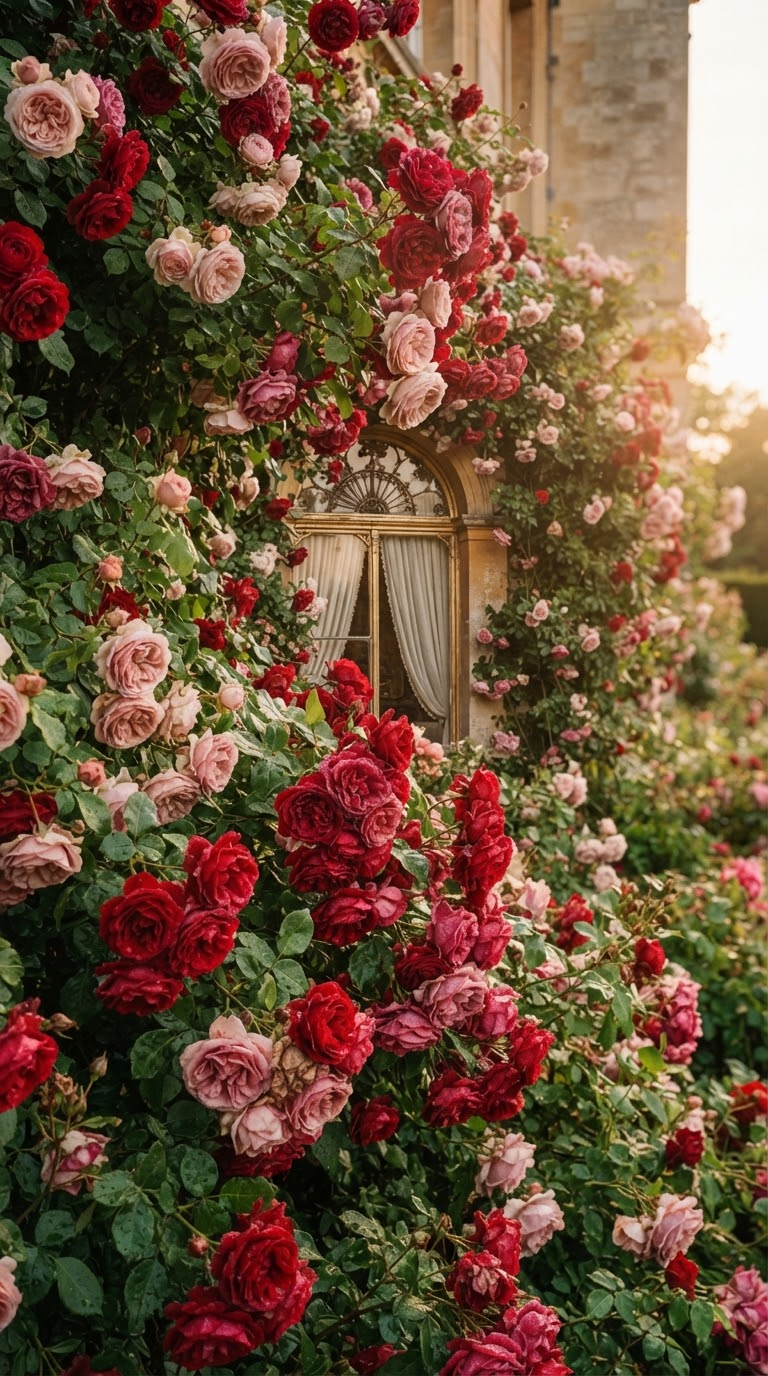
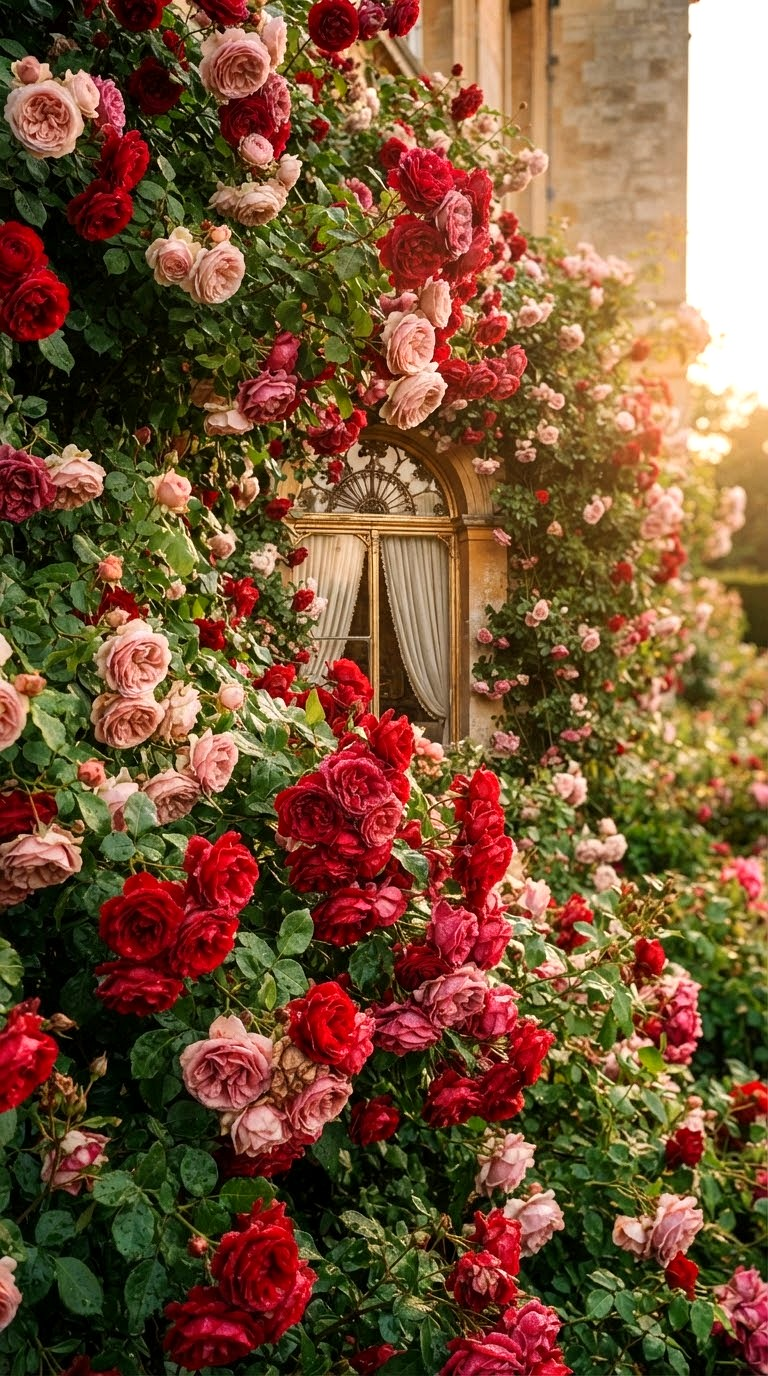
Agrega relato del cuento, música (YouTube) y realza el brillo de las imágenes
- Relato de la quinceañera bajo la imagen del jardín (imagen reducida a 300px)
- Música de fondo "La Fábula Ancestral" vía reproductor oficial de YouTube (botón ♪)
- Realce de brillo/color/contraste en salón, rosa-cúpula y jardín (menos matificado)
- Fondo de portada más luminoso y pareja del vals con más brillo dorado

diff --git a/index.html b/index.html
@@ -265,8 +265,16 @@
 
   /* ============ SALÓN · EL VALS ============ */
   .ballroom{ position:relative; margin:18px auto 6px; max-width:640px }
-  .vals-img{ display:block; width:100%; max-width:520px; margin:16px auto 4px;
-    border-radius:6px; border:2px solid var(--oro); box-shadow:var(--sombra) }
+  .vals-img{ display:block; width:100%; max-width:300px; margin:16px auto 6px;
+    border-radius:8px; border:2px solid var(--oro); box-shadow:var(--sombra);
+    filter:brightness(1.05) saturate(1.08) }
+  /* relato / cuento de la quinceañera */
+  .relato{ max-width:560px; margin:6px auto 4px; padding:0 8px; text-align:center }
+  .relato p{ font-family:'Cormorant Garamond',Georgia,serif; font-style:italic;
+    font-weight:400; font-size:clamp(1.16rem,3.6vw,1.5rem); line-height:1.7;
+    color:var(--texto); margin:0 0 15px }
+  .relato p:last-child{ margin-bottom:0; font-style:normal }
+  .relato .rosa-cierre{ font-size:1.35em; font-style:normal }
   .escena{ width:100%; height:auto; display:block; overflow:visible }
   .escena .figura{ fill:var(--texto) }
   .escena .cabello{ fill:var(--texto) }
@@ -386,6 +394,16 @@
   .fab-wa{ right:16px; bottom:16px; background:#25D366; color:#fff }
   .fab-music{ left:16px; bottom:16px; background:var(--gradBoton); color:var(--texto) }
   .flotante svg{ width:26px; height:26px; fill:currentColor }
+  /* tarjeta del reproductor de música (YouTube oficial) */
+  .yt-card{ position:fixed; left:16px; bottom:80px; z-index:41; width:236px;
+    background:var(--tarjeta); border:2px solid var(--oro); border-radius:14px;
+    box-shadow:var(--sombra); padding:9px 9px 10px; animation:ytEntra .3s ease }
+  .yt-card .yt-tit{ font-family:'Cormorant Garamond',Georgia,serif; font-weight:600;
+    font-size:1rem; color:var(--texto); text-align:center; margin:0 0 7px; letter-spacing:.2px }
+  .yt-card .yt-marco{ position:relative; width:100%; aspect-ratio:16/9;
+    border-radius:9px; overflow:hidden; background:#000 }
+  .yt-card .yt-marco iframe{ position:absolute; inset:0; width:100%; height:100%; border:0 }
+  @keyframes ytEntra{ from{ opacity:0; transform:translateY(10px) } to{ opacity:1; transform:none } }
 
   /* ====== LIGHTBOX ====== */
   .lightbox{ position:fixed; inset:0; z-index:60; background:rgba(20,10,20,.9); display:none; align-items:center; justify-content:center; padding:20px }
@@ -398,14 +416,15 @@
   .hero::before{
     content:''; position:absolute; inset:0; z-index:0; pointer-events:none;
     background:
-      linear-gradient(180deg, rgba(16,18,42,.60), rgba(16,18,42,.40) 42%, rgba(22,14,10,.74)),
+      linear-gradient(180deg, rgba(16,18,42,.46), rgba(16,18,42,.26) 44%, rgba(22,14,10,.60)),
       url('img/salon.jpg') center / cover no-repeat;
+    filter:brightness(1.08) saturate(1.06);
   }
   .hero > *{ position:relative; z-index:1 }
   /* pareja de vals sobre el salón, detrás del marco */
   .hero-vals{ position:absolute; inset:0; z-index:0; display:grid; place-items:center; pointer-events:none; overflow:hidden }
-  .hero-vals svg{ width:min(82vh,600px); height:auto; color:#e7c66a; opacity:.30;
-    filter:drop-shadow(0 0 36px rgba(231,198,106,.5));
+  .hero-vals svg{ width:min(82vh,600px); height:auto; color:#f0d27a; opacity:.40;
+    filter:drop-shadow(0 0 46px rgba(240,210,122,.65));
     transform-origin:50% 88%; animation:valsGira 6s ease-in-out infinite alternate }
   .hero-vals .vals-bob{ animation:valsBobFondo 4.2s ease-in-out infinite }
   .hero-vals .vals-falda{ transform-box:fill-box; transform-origin:50% 0; animation:valsFalda 4.2s ease-in-out infinite alternate }
@@ -727,6 +746,13 @@
         </svg>
       </div>
 
+      <div class="relato">
+        <p>Como en un hermoso cuento de hadas, Sara Valentina comienza un nuevo capítulo de su historia.</p>
+        <p>Quince años de sueños, risas, ilusiones y momentos que han hecho florecer su vida como un hermoso jardín.</p>
+        <p>Entre rosas, alegrías y personas que ama, celebrará una noche que quedará para siempre en su corazón.</p>
+        <p>Te invitamos a ser parte de este mágico sueño y a hacer de esta noche un recuerdo para toda la vida. <span class="rosa-cierre">🌹</span></p>
+      </div>
+
       <!-- Foto opcional de los bailarines (aparece si existe el archivo) -->
       <figure class="fotoBailarines" id="fotoBailarines" hidden>
         <div class="marcoFoto">
@@ -734,7 +760,6 @@
         </div>
       </figure>
 
-      <p class="intro">Como en los cuentos de hadas, donde las rosas florecen sin fin y los sueños se hacen realidad. 🌹</p>
     </div>
   </section>
 
@@ -999,6 +1024,12 @@
     <svg viewBox="0 0 24 24" id="iconMusicOff"><path d="M12 3v10.55A4 4 0 108 17V7h6V3h-2zm-2 0H8v2h2V3z"/></svg>
   </button>
 
+  <!-- Reproductor de música (video oficial de YouTube) -->
+  <div class="yt-card" id="ytCard" hidden>
+    <div class="yt-tit">♪ La Fábula Ancestral</div>
+    <div class="yt-marco"><div id="ytPlayer"></div></div>
+  </div>
+
   <!-- Visor de fotos -->
   <div class="lightbox" id="lightbox">
     <button class="cerrar" id="lightboxCerrar" aria-label="Cerrar">&times;</button>
@@ -1054,7 +1085,8 @@ const CONFIG = {
   tiktok:      "",                     // usuario sin @
 
   /* ====== MÚSICA (archivo de audio en la carpeta, o "") ====== */
-  musica: "",                          // ej. "musica.mp3"
+  musica: "",                          // (alternativa) archivo mp3 propio, ej. "musica.mp3"
+  youtubeMusica: "CXZ7Nz69OPg",        // canción de fondo "La Fábula Ancestral" (video oficial de YouTube)
 
   /* ====== EMAIL opcional (Formspree) para avisos ====== */
   formspreeID: "",                     // opcional: si lo pones, te llegan avisos por correo
@@ -1489,15 +1521,54 @@ if(CONFIG.zelleCorreo) $('btnCopiarZelle').addEventListener('click', () => copia
 })();
 
 /* ---------- MÚSICA ---------- */
-if(CONFIG.musica){
-  const audio = new Audio(CONFIG.musica); audio.loop = true; audio.volume = 0.6;
-  const fab = $('fabMusic'); fab.style.display = 'grid'; fab.style.opacity = .6;
-  let sonando = false;
-  fab.addEventListener('click', () => {
-    if(sonando){ audio.pause(); sonando=false; fab.style.opacity=.6; }
-    else{ audio.play().then(()=>{ sonando=true; fab.style.opacity=1; }).catch(()=>{}); }
-  });
-}
+(function(){
+  const fab = $('fabMusic');
+  if(!fab) return;
+
+  /* --- Opción A: video oficial de YouTube --- */
+  if(CONFIG.youtubeMusica){
+    const card = $('ytCard');
+    let player = null, listo = false, sonando = false;
+
+    // cargar la API de YouTube una sola vez
+    const tag = document.createElement('script');
+    tag.src = 'https://www.youtube.com/iframe_api';
+    document.head.appendChild(tag);
+
+    window.onYouTubeIframeAPIReady = function(){
+      player = new YT.Player('ytPlayer', {
+        videoId: CONFIG.youtubeMusica,
+        playerVars: { rel:0, playsinline:1, modestbranding:1 },
+        events: {
+          onReady: () => { listo = true; fab.style.display='grid'; fab.style.opacity=.6; try{ player.setVolume(60); }catch(e){} },
+          onStateChange: (e) => { if(e.data === YT.PlayerState.ENDED){ player.seekTo(0); player.playVideo(); } } // repetir en bucle
+        }
+      });
+    };
+
+    fab.addEventListener('click', () => {
+      if(!listo) return;
+      if(sonando){ player.pauseVideo(); sonando=false; fab.style.opacity=.6; card.hidden=true; }
+      else{ card.hidden=false; player.playVideo(); sonando=true; fab.style.opacity=1; }
+    });
+    return;
+  }
+
+  /* --- Opción B: archivo mp3 propio --- */
+  if(CONFIG.musica){
+    const audio = new Audio(CONFIG.musica); audio.loop = true; audio.volume = 0.6;
+    let sonando = false, lista = false;
+    audio.addEventListener('canplay', () => {
+      if(lista) return; lista = true;
+      fab.style.display = 'grid'; fab.style.opacity = .6;
+    });
+    audio.addEventListener('error', () => { fab.style.display = 'none'; });
+    fab.addEventListener('click', () => {
+      if(sonando){ audio.pause(); sonando=false; fab.style.opacity=.6; }
+      else{ audio.play().then(()=>{ sonando=true; fab.style.opacity=1; }).catch(()=>{}); }
+    });
+  }
+})();
 
 /* cargar contenido inicial */
 cargarFelic();
